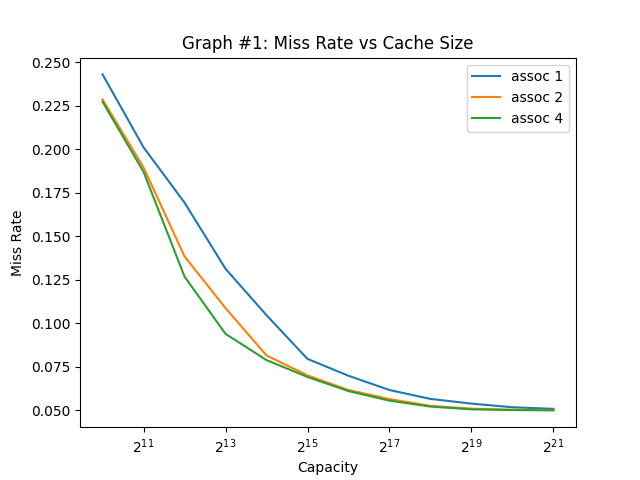
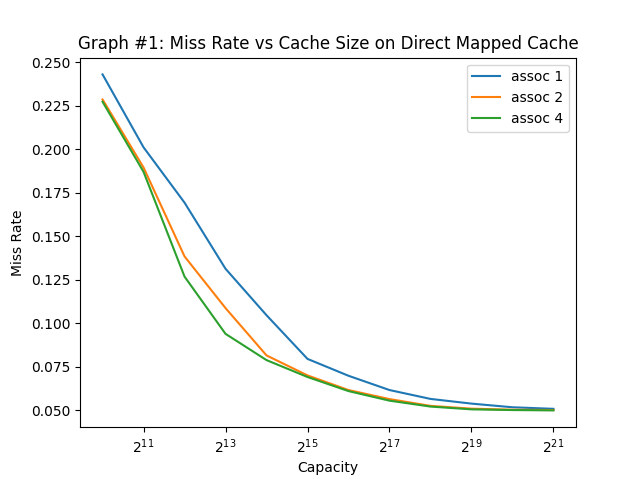
code clean up and graph titles

Changed region(s): [[0.125, 0.0625, 0.9062, 0.125]]

diff --git a/p5release/cache.c b/p5release/cache.c
@@ -14,9 +14,7 @@ cache_t *make_cache(int capacity, int block_size, int assoc, enum protocol_t pro
   cache->block_size = block_size;  // in Bytes
   cache->assoc = assoc;            // 1, 2, 3... etc.
 
-  // FIX THIS CODE!
-  // first, correctly set these 5 variables. THEY ARE ALL WRONG
-  // note: you may find math.h's log2 function useful
+  // initializing the struct variables
   cache->n_cache_line = capacity/block_size;
   cache->n_set = capacity/(assoc * block_size);
   cache->n_offset_bit = log2(block_size);
@@ -26,8 +24,6 @@ cache_t *make_cache(int capacity, int block_size, int assoc, enum protocol_t pro
   // next create the cache lines and the array of LRU bits
   // - malloc an array with n_rows
   // - for each element in the array, malloc another array with n_col
-  // FIX THIS CODE!
-
   cache->lines = malloc(cache->n_set * sizeof(cache_line_t*));
   for(int i = 0; i< cache->n_set; i++){
     cache->lines[i]=malloc(sizeof(cache_line_t) * assoc);
@@ -36,7 +32,6 @@ cache_t *make_cache(int capacity, int block_size, int assoc, enum protocol_t pro
 
   // initializes cache tags to 0, dirty bits to false,
   // state to INVALID, and LRU bits to 0
-  // FIX THIS CODE!
   for (int i = 0; i < cache->n_set; i++) {
     for (int j = 0; j < assoc; j++) {
       cache->lines[i][j].dirty_f = false; 
@@ -59,7 +54,6 @@ cache_t *make_cache(int capacity, int block_size, int assoc, enum protocol_t pro
  * in decimal -- get_cache_tag(3921) returns 15 
  */
 unsigned long get_cache_tag(cache_t *cache, unsigned long addr) {
-  // FIX THIS CODE!
   return addr >> (ADDRESS_SIZE - cache->n_tag_bit);
 }
 
@@ -70,9 +64,7 @@ unsigned long get_cache_tag(cache_t *cache, unsigned long addr) {
  * in decimal -- get_cache_index(3921) returns 5
  */
 unsigned long get_cache_index(cache_t *cache, unsigned long addr) {
-  // FIX THIS CODE!
   addr = addr >> cache->n_offset_bit;
-  // printf("addr: %lx\n", addr);
   addr = addr << (cache->n_tag_bit + cache->n_offset_bit);
   unsigned long bitmask = 0;
   bitmask = ~bitmask >> (sizeof(long) * 8 - ADDRESS_SIZE);
@@ -284,7 +276,6 @@ bool access_cache(cache_t *cache, unsigned long addr, enum action_t action) {
   }
   update_stats(cache->stats, hit, writeback_f, upgrade_miss_f, bus_snoop_f, snoop_hit_f, action);
 
-  //TODO: upgrade_miss_f
   return hit;
 
 }

diff --git a/p5release/cache_stats.c b/p5release/cache_stats.c
@@ -70,9 +70,6 @@ void calculate_stat_rates(cache_stats_t *stats, int block_size) {
 
   stats->hit_rate = stats->n_hits / (double)stats->n_cpu_accesses;
 
-  // FIX THIS CODE!
-  // you will need to modify this function in order to properly
-  // calculate wb and wt data
   stats->B_bus_to_cache = (stats->n_cpu_accesses - stats->n_hits) * block_size;
   stats->B_cache_to_bus_wb = stats->n_writebacks * block_size;
   stats->B_cache_to_bus_wt = 0; // ignored

diff --git a/p5release/graph2.py b/p5release/graph2.py
@@ -56,7 +56,7 @@ def graph():
         plots.append(p)
     plt.legend(plots, ['assoc %d' % a for a in assoc_range])
     plt.xscale('log', base=2)
-    plt.title('Graph #2: Total Traffic vs Cache Size')
+    plt.title('Graph #2: Total Traffic vs Cache Size with Set Associative Caches')
     plt.xlabel('Capacity')
     plt.ylabel('Total Traffic')
     plt.savefig(figname)

diff --git a/p5release/graph4.py b/p5release/graph4.py
@@ -56,7 +56,7 @@ def graph():
         plots.append(p)
     plt.legend(plots, ['core %d' % a for a in cores])
     plt.xscale('log', base=2)
-    plt.title('Graph #4: Miss Rate vs Block Size')
+    plt.title('Graph #4: Miss Rate vs Block Size using MSI Protocol on Multicore')
     plt.xlabel('Block Size')
     plt.ylabel('Miss Rate')
     plt.savefig(figname)

diff --git a/p5release/graph3.py b/p5release/graph3.py
@@ -56,7 +56,7 @@ def graph():
         plots.append(p)
     plt.legend(plots, ['core %d' % a for a in cores])
     plt.xscale('log', base=2)
-    plt.title('Graph #3: Miss Rate vs Block Size')
+    plt.title('Graph #3: Miss Rate vs Block Size using VI Protocol on Multicore')
     plt.xlabel('Block Size')
     plt.ylabel('Miss Rate')
     plt.savefig(figname)

diff --git a/p5release/graph1.py b/p5release/graph1.py
@@ -56,7 +56,7 @@ def graph():
         plots.append(p)
     plt.legend(plots, ['assoc %d' % a for a in assoc_range])
     plt.xscale('log', base=2)
-    plt.title('Graph #1: Miss Rate vs Cache Size')
+    plt.title('Graph #1: Miss Rate vs Cache Size on Direct Mapped Cache')
     plt.xlabel('Capacity')
     plt.ylabel('Miss Rate')
     plt.savefig(figname)
